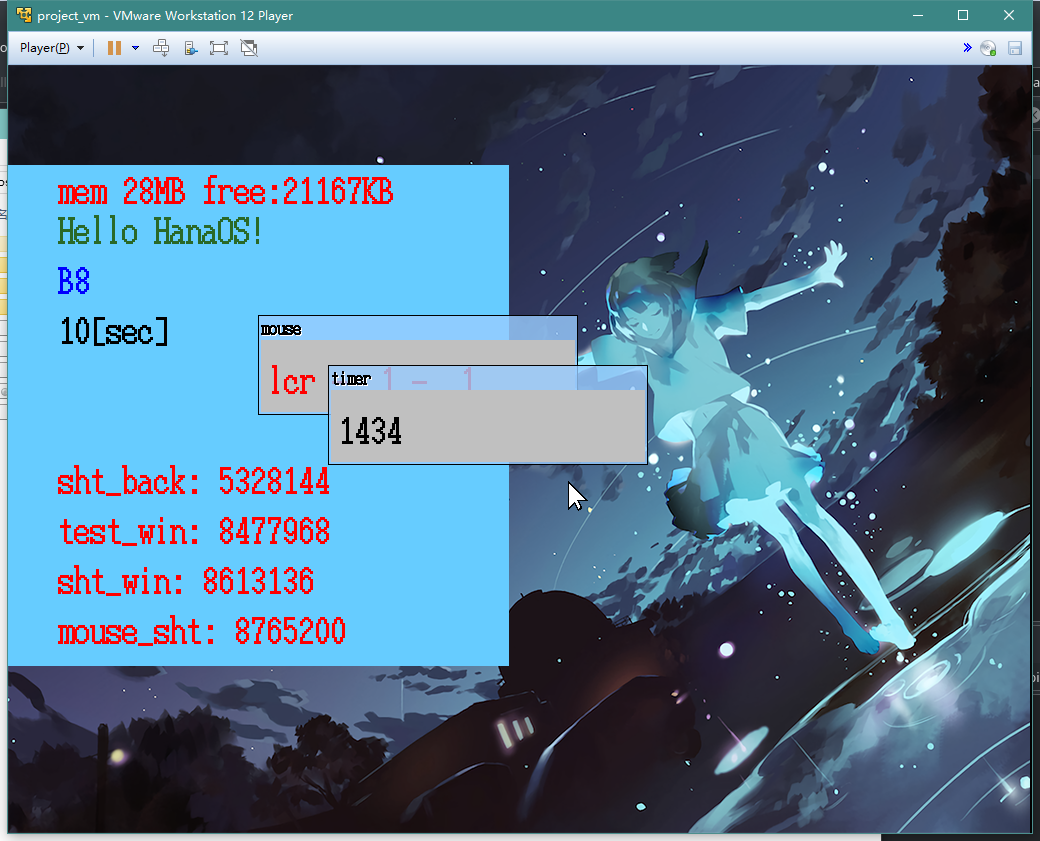
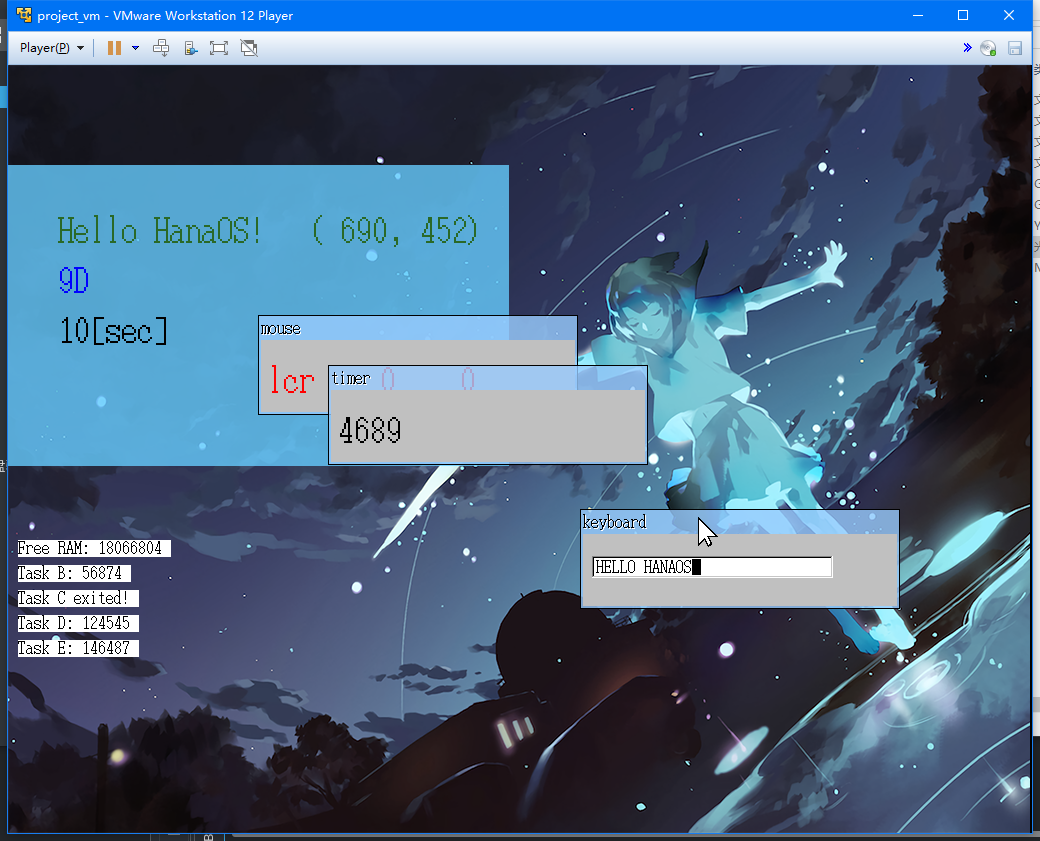
多级任务优先级实现
第16天结束

diff --git a/task.cpp b/task.cpp
@@ -10,16 +10,53 @@ TIMER *mt_timer;
 
 extern MEMMAN *memman;
 
+Task *task_now(){
+	auto tl=&taskctl->level[taskctl->now_lv];
+	return tl->tasks[tl->now];
+}
+
+void task_add(Task *task){
+	auto tl=&taskctl->level[task->level];
+	tl->tasks[tl->running]=task;
+	tl->running++;
+	task->stat=RUNNING;
+}
+
+void task_remove(Task *task){
+	auto tl=&taskctl->level[task->level];
+	int i;
+	for(i=0;i<tl->running;i++)
+		if(tl->tasks[i]==task)
+			break;
+	tl->running--;
+	if(i<tl->now)
+		tl->now--;
+	if(tl->now>=tl->running)
+		tl->now=0;
+	task->stat=SLEEPING;
+	for(;i<tl->running;i++)
+		tl->tasks[i]=tl->tasks[i+1];
+}
+
+void task_switchsub(){
+	int i;
+	for(i=0;i<MAX_TASKLEVELS;i++)
+		if(taskctl->level[i].running>0)
+			break;
+	taskctl->now_lv=i;
+	taskctl->lv_change=0;
+}
+
 Task *initTasking(TIMER *timer){
 	taskctl=(TASKCTRL*)memman->alloc_4k(sizeof(TASKCTRL));
 	for(int i=0;i<MAX_TASKS;i++)
 		taskctl->tasks0[i].stat=EMPTY;
 	auto task=taskctl->alloc();
 	task->stat=RUNNING;
-	taskctl->running=1;
-	taskctl->now=0;
 	task->priority=2;
-	taskctl->tasks[0]=task;
+	task->level=0;
+	task_add(task);
+	task_switchsub();
 	asm volatile("movl %%cr3, %%eax; movl %%eax, %0;":"=m"(task->regs.cr3)::"%eax");
 	asm volatile("pushfl; movl (%%esp), %%eax; movl %%eax, %0; popfl;":"=m"(task->regs.eflags)::"%eax");
 	
@@ -29,14 +66,17 @@ Task *initTasking(TIMER *timer){
 	return task;
 }
 
-void task_run(Task *task,int priority){
+void task_run(Task *task,int level,int priority){
+	if(level<0)level=task->level;
 	if(priority!=0)
 		task->priority=priority;
+	if(task->stat==RUNNING&&task->level!=level)
+		task_remove(task);
 	if(task->stat!=RUNNING){
-		task->stat=RUNNING;
-		taskctl->tasks[taskctl->running]=task;
-		taskctl->running++;
+		task->level=level;
+		task_add(task);
 	}
+	taskctl->lv_change=1;
 }
 
 Task *TASKCTRL::alloc(){
@@ -59,17 +99,18 @@ Task *TASKCTRL::alloc(){
 }
 
 void mt_taskswitch(){
-	auto prev=taskctl->tasks[taskctl->now];
-	if(taskctl->running>=2){
-		taskctl->now++;
-		if(taskctl->now==taskctl->running)
-			taskctl->now=0;
-		auto task=taskctl->tasks[taskctl->now];
-		mt_timer->set(task->priority);
-		switchTask(&prev->regs,&task->regs);
-	}else{
-		mt_timer->set(prev->priority);
+	auto tl=&taskctl->level[taskctl->now_lv];
+	Task *newtask,*nowtask=tl->tasks[tl->now];
+	tl->now++;
+	if(tl->now==tl->running)tl->now=0;
+	if(taskctl->lv_change!=0){
+		task_switchsub();
+		tl=&taskctl->level[taskctl->now_lv];
 	}
+	newtask=tl->tasks[tl->now];
+	mt_timer->set(newtask->priority);
+	if(newtask!=nowtask)
+		switchTask(&nowtask->regs,&newtask->regs);
 }
 
 Task *createTask(void (*main)()){
@@ -79,28 +120,18 @@ Task *createTask(void (*main)()){
 }
 
 void sleepTask(){
-	auto task=taskctl->tasks[taskctl->now];
-	int i;
-	for(i=0;i<taskctl->running;i++)
-		if(taskctl->tasks[i]==task)
-			break;
-	taskctl->running--;
-	for(;i<taskctl->running;i++)
-		taskctl->tasks[i]=taskctl->tasks[i+1];
-	task->stat=SLEEPING;
-	if(taskctl->now>=taskctl->running)
-		taskctl->now=0;
-		switchTask(&task->regs,&taskctl->tasks[taskctl->now]->regs);
+	auto task=task_now();
+	task_remove(task);
+	task_switchsub();
+	auto now_task=task_now();
+	switchTask(&task->regs,&now_task->regs);
 }
 
 void exitTask(){
-	auto task=taskctl->tasks[taskctl->now];
-	for(int i=taskctl->now;i<taskctl->running;i++)
-		taskctl->tasks[i]=taskctl->tasks[i+1];
-	taskctl->running--;
+	auto task=task_now();
+	task_remove(task);
 	memman->free_4k(task->regs.esp,TASK_STACK_SIZE);
 	task->stat=EMPTY;
-	if(taskctl->now>=taskctl->running)
-		taskctl->now=0;
-	switchTask(&task->regs,&taskctl->tasks[taskctl->now]->regs);
+	task_switchsub();
+	switchTask(&task->regs,&task_now()->regs);
 }

diff --git a/include/task.hpp b/include/task.hpp
@@ -12,16 +12,24 @@ enum TASKSTATUS{EMPTY,RUNNING,SLEEPING};
 typedef struct Task {
 	Registers regs;
 	TASKSTATUS stat=RUNNING;
-	int priority;
+	int level,priority;
 } __attribute__((packed)) Task;
 
 #define MAX_TASKS 1000
+#define MAX_TASKS_LV 100
+#define MAX_TASKLEVELS 10
+
+struct TASKLEVEL {
+	int running;
+	int now;
+	Task *tasks[MAX_TASKS_LV];
+};
 
 class TASKCTRL {
 public:
-	int running;
-	int now;
-	Task *tasks[MAX_TASKS];
+	int now_lv;
+	char lv_change;
+	struct TASKLEVEL level[MAX_TASKLEVELS];
 	Task tasks0[MAX_TASKS];
 	Task *alloc();
 };
@@ -29,7 +37,7 @@ public:
 extern "C" void switchTask(Registers *from, Registers *to);
 extern "C" void mt_taskswitch();
 Task *createTask(void (*main)());
-void task_run(Task *task,int priority);
+void task_run(Task *task,int level,int priority);
 void exitTask();
 void sleepTask();
 Task *initTasking(TIMER *timer);

diff --git a/kernel.cpp b/kernel.cpp
@@ -41,7 +41,7 @@ void task_c_main(){
 			sprintf(str,"Task C exited!");
 			sht_back->putstring(10,525,1,0x000000,0xffffff,str);
 			auto newtask=createTask(&task_e_main);
-			task_run(newtask,4);
+			task_run(newtask,1,4);
 			exitTask();
 		}
 		sprintf(str,"Task C: %d",count);
@@ -140,11 +140,11 @@ extern "C" void kernel_main(multiboot_info_t *hdr,uint32_t magic)
 	auto mt_timer=timerctrl->alloc();
 	auto taska=initTasking(mt_timer);
 	auto taskb=createTask(&task_b_main);
-	task_run(taskb,1);
+	task_run(taskb,1,1);
 	auto taskc=createTask(&task_c_main);
-	task_run(taskc,2);
+	task_run(taskc,1,2);
 	auto taskd=createTask(&task_d_main);
-	task_run(taskd,3);
+	task_run(taskd,1,3);
 	
 	//Keyboard init
 	auto fifo=(FIFO*)memman->alloc_4k(sizeof(FIFO));

diff --git a/fifo.cpp b/fifo.cpp
@@ -41,7 +41,7 @@ int FIFO::put(int data){
 	free--;
 	if(task!=0)
 		if(task->stat!=RUNNING)
-			task_run(task,0);
+			task_run(task,-1,0);
 	return 0;
 }
 
